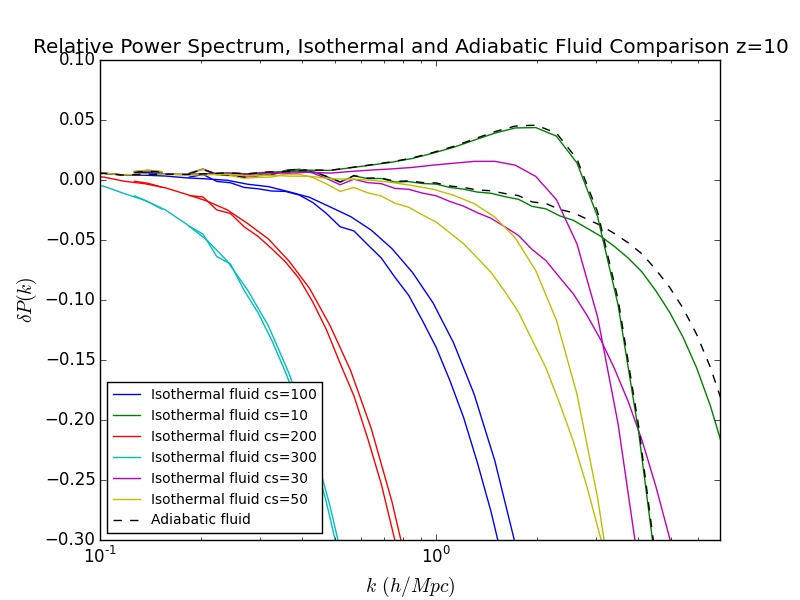
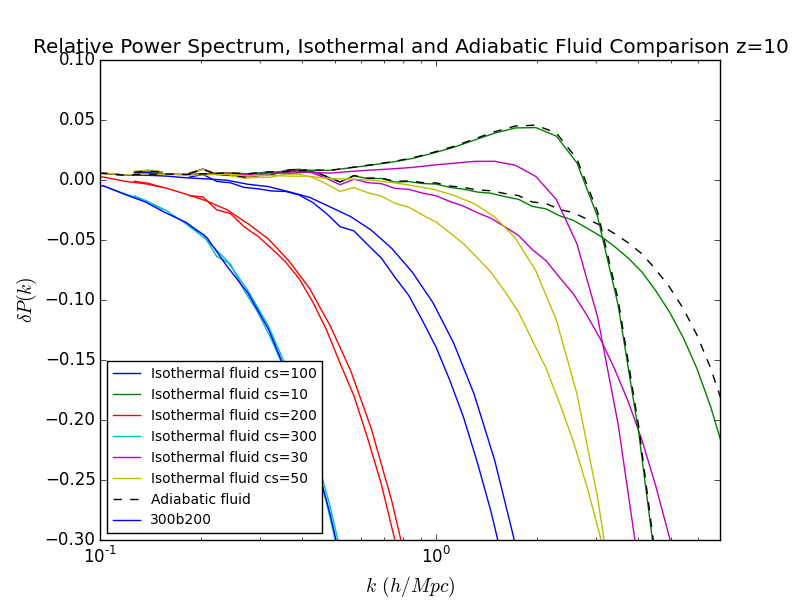
Added b200 results.

diff --git a/plots/isothermal/isothermal_fluid_low_adiabatic_normalized_particle_minpressure.py b/plots/isothermal/isothermal_fluid_low_adiabatic_normalized_particle_minpressure.py
@@ -41,7 +41,7 @@ for simtype in simtypes:
 
 base = 'particle_b400_n1024_t0.005_h2_z100.out'
 kvalues_base, ps_base = np.loadtxt(result_dir+base, unpack=True)
-kvalues_base = kvalues_base[kvalues_base < 0.4]
+kvalues_base = kvalues_base[kvalues_base < 10]
 ps_base = ps_base[:len(kvalues_base)]
 
 simtypes = ['fluid']
@@ -79,6 +79,36 @@ oneloop_400 = (oneloop_400 - nonlinear_ps_400)/nonlinear_ps_400
 plt.semilogx(linear_kvalues_400, linear_ps_400, '-x', label='linear prediction')
 plt.semilogx(linear_kvalues_400, oneloop_400, '-x', label='one-loop')
 
+
+base = 'particle_b200_n1024_t0.005_h2_z50.out'
+kvalues_base, ps_base = np.loadtxt(result_dir+base, unpack=True)
+kvalues_base = kvalues_base[kvalues_base < 10]
+ps_base = ps_base[:len(kvalues_base)]
+
+simtypes = ['fluid']
+for simtype in simtypes:
+    params = [simtype,'b200','n1024','t0.005','h2','isothermal', 'z100']
+    filenames = [filename for filename in results if all(param in filename for param in params)]
+    filenames.append('fluid_b200_n1024_t0.005_h2_z100.out')
+
+    for filename in filenames:
+        if 'isothermal' in filename and 'minpressure16' in filename:
+            isothermal = isothermalpattern.findall(filename)[0]
+            print isothermal
+            if int(isothermal) <= 300:
+                n = npattern.findall(filename)[0]
+                kvalues, ps = np.loadtxt(result_dir+filename, unpack=True)
+                kvalues = kvalues[:len(kvalues_base)]
+                ps = ps[:len(kvalues)]
+                ps = (ps - ps_base)/ps_base
+                style = '-'
+                plt.semilogx(kvalues, ps, style, label=None)
+        elif filename is 'fluid_b200_n1024_t0.005_h2_z100.out': 
+            kvalues, ps = np.loadtxt(result_dir+filename, unpack=True)
+            kvalues = kvalues[:len(kvalues_base)]
+            ps = ps[:len(kvalues)]
+            ps = (ps - ps_base)/ps_base
+            plt.semilogx(kvalues, ps, '--', label=None)
 
 plt.xlim([0.027,1])
 plt.ylim([-1.0,0.3])

diff --git a/plots/isothermal/isothermal_fluid_low_adiabatic_normalized_particle_z10_minpressure.py b/plots/isothermal/isothermal_fluid_low_adiabatic_normalized_particle_z10_minpressure.py
@@ -64,6 +64,36 @@ for simtype in simtypes:
             ps = (ps - ps_base)/ps_base
             plt.semilogx(kvalues, ps, '--', label=None)
 
+base = 'particle_b200_n1024_t0.005_h2_z10.out'
+
+kvalues_base, ps_base = np.loadtxt(result_dir+base, unpack=True)
+kvalues_base = kvalues_base[kvalues_base < 10]
+ps_base = ps_base[:len(kvalues_base)]
+simtypes = ['fluid']
+for simtype in simtypes:
+    params = [simtype,'b200','n1024','t0.005','h2','iso','z10_','z100']
+    filenames = [filename for filename in results if all(param in filename for param in params)]
+    filenames.append('fluid_b200_n1024_t0.005_h2_z10.out')
+    print filenames
+    for filename in filenames:
+        if 'iso' in filename and 'minpressure16' in filename:
+            isothermal = isothermalpattern.findall(filename)[0]
+            print isothermal
+            if int(isothermal) <= 300:
+                n = npattern.findall(filename)[0]
+                kvalues, ps = np.loadtxt(result_dir+filename, unpack=True)
+                kvalues = kvalues[:len(kvalues_base)]
+                ps = ps[:len(kvalues)]
+                ps = (ps - ps_base)/ps_base
+                style = '-'
+                plt.semilogx(kvalues, ps, style, label=str(isothermal) + 'b200')
+        elif filename is 'fluid_b200_n1024_t0.005_h2_z100_z10.out': 
+            kvalues, ps = np.loadtxt(result_dir+filename, unpack=True)
+            kvalues = kvalues[:len(kvalues_base)]
+            ps = ps[:len(kvalues)]
+            ps = (ps - ps_base)/ps_base
+            plt.semilogx(kvalues, ps, '--', label=None)
+
 filenames = [filename for filename in results if 'testgrowth' in filename]
 for filename in filenames:
     testgrowth = testgrowthpattern.findall(filename)[0]
